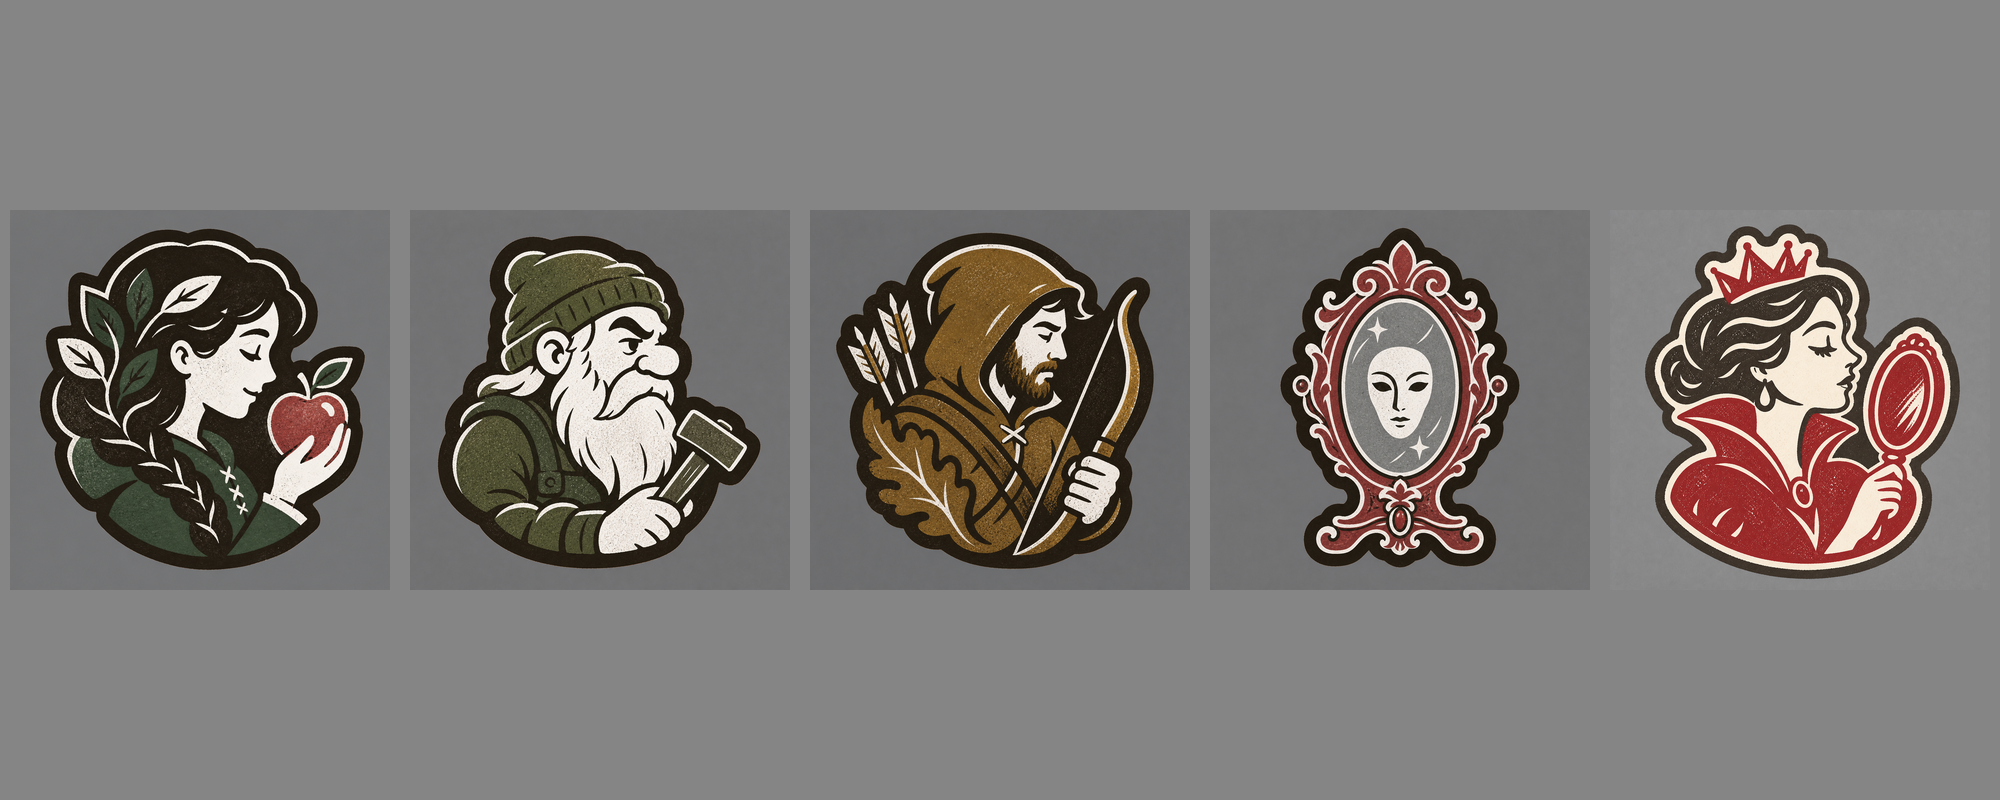
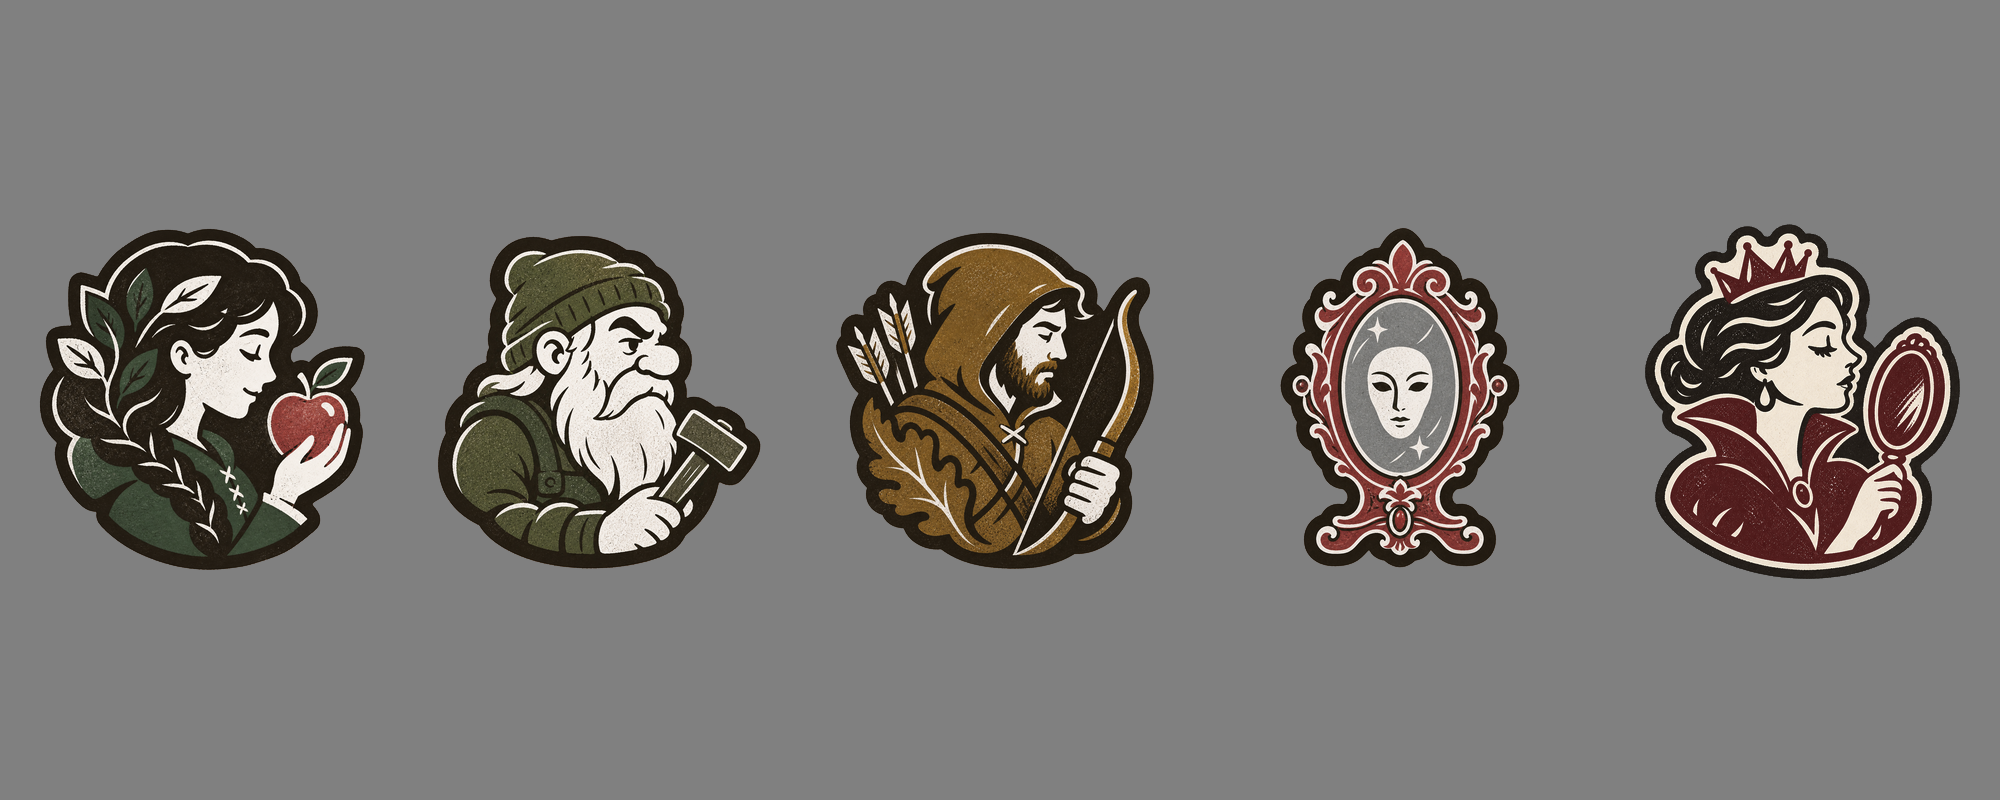
Publish BloodScribe Creator 1.4.3

Changed region(s): [[0.806, 0.2812, 0.992, 0.7188]]

diff --git a/plugins/bloodscribe-creator/skills/create-bloodscribe-icon/references/styles.md b/plugins/bloodscribe-creator/skills/create-bloodscribe-icon/references/styles.md
@@ -10,17 +10,33 @@ For user selection, show [style-selector-board.png](../assets/style-selector-boa
 
 Every style uses a square icon canvas and a compact, almost square subject mass. The visible bounding box should normally be at least 75% as wide as it is tall and remain balanced inside a circular crop. Prefer head-and-shoulders crops, diagonal long objects, overlapping hands or symbols, and near-circular silhouettes. Avoid full bodies, narrow standing poses, tall portrait cards, or placing the narrative object in a separate row below the character. Comparison boards use five equal square cells: each centered subject occupies about 78-84 percent of its cell at a consistent scale. The board outside subjects is pure white by default. A style with a white exterior contour may instead use a uniform neutral mid-gray inspection canvas so the contour remains visible; that gray is never part of the final icon. A material support or contextual background may exist only inside the local icon when the style explicitly requires it.
 
+## Character-type palette
+
+Use colors declared by the target pack or supplied by the user. Ask once for all five character-type colors when any are missing; accept partial overrides and fill each omitted entry with the corresponding BloodScribe default:
+
+| Character type | Default |
+|---|---|
+| Pueblerinos | `#438b54` |
+| Ayudantes | `#81942d` |
+| Errantes | `#947947` |
+| Siervos | `#a8443c` |
+| Oscuros | `#5d2618` |
+
+Always state the active character type and its exact resolved color in the image-generation prompt. Apply it primarily to clothing, trim, collar, frame, or one secondary mass. Story-defining subjects and objects keep their intuitive natural colors.
+
 ## Styles
 
 ### `cuento-infantil`
 
-The established Grimm style. Read [the reference board](../assets/cuento-infantil-style-board.png) before generating.
+The established Grimm character style, equivalent to `GRIMM-INK-V1-SCHEMATIC`. Read [the reference board](../assets/cuento-infantil-style-board.png) before generating; use it for subject scale and composition, while the locked rules below control finish and detail. This style defaults to `bajo`; for this pairing, its locked 7-11-mass definition overrides the generic 5-7-mass guidance for `bajo` below.
 
-- Rounded, schematic folklore character or object with a friendly editorial finish.
-- Heavy, smooth black exterior and important interior contours.
-- Large clean color masses with restrained soft gradients; no painted texture or scenery.
-- Expressive face built from very few marks and a dominant story object occupying roughly 30-45 percent of the composition.
-- Character-type color on clothing or the main support mass: green for Pueblerino, olive for Ayudante, ochre for Errante, red for Siervo, dark brown for Oscuro. Natural story colors still win.
+- One original folklore character, creature, or object in a centered bust or emblem, readable at 48-64 px.
+- Roughly 7-11 large, flat schematic masses and no more than 3-5 essential interior marks.
+- One consistent heavy pure-black outline, visually about 26 px on a 1254 px canvas. Exterior and important interior contours use the same weight, rounded caps and joins, smooth organic curves, and soft corners.
+- One dominant story object, garment, hairstyle, or secondary shape occupying roughly 35-50 percent of the composition.
+- No gradients, hatching, texture, tiny patterns, individual hair or fur strands, scenery, extra characters, text, logo, frame, realism, 3D, anime, faceted polygons, or blocky anatomy.
+- Use the resolved character-type palette above without recoloring story-defining subjects or objects.
+- Keep enclosed whites and creams opaque; only the exterior is transparent. Do not imitate Disney or another franchise.
 
 ### `acuarela-infantil`
 
@@ -127,7 +143,7 @@ For user selection, show [detail-selector-board.png](../assets/detail-selector-b
 
 - About 10-14 masses.
 - A few garment folds, grouped hair or beard shapes, and the important object fittings.
-- Default for every style except `polaroid-realista`.
+- Default for every style except `cuento-infantil` and `polaroid-realista`.
 
 ### `detallado`
 
@@ -137,11 +153,11 @@ For user selection, show [detail-selector-board.png](../assets/detail-selector-b
 
 ## Recommended pairings
 
-Use these only when the user asks for a recommendation; they never replace explicit selection.
+`cuento-infantil` uses its listed style-specific default. Use every other pairing only when the user asks for a recommendation; they never replace explicit selection.
 
 | Style | Detail |
 |---|---|
-| `cuento-infantil` | `medio` |
+| `cuento-infantil` | `bajo` (predeterminado) |
 | `acuarela-infantil` | `medio` |
 | `icono-representativo` | `medio` |
 | `emblema-narrativo` | `medio` |

diff --git a/plugins/bloodscribe-creator/skills/create-bloodscribe-icon/SKILL.md b/plugins/bloodscribe-creator/skills/create-bloodscribe-icon/SKILL.md
@@ -12,8 +12,8 @@ Icon generation is optional and separate from character mechanics. Do not create
 ## Workflow
 
 1. Always deliver one separate pack-ready SVG per character. Do not ask the user to choose an output format and do not offer PNG comparison sheets; PNG proposals are review intermediates only.
-2. Identify the character, one dominant narrative symbol, the pack's character-type color, and any explicit constraints. Keep story objects in their natural colors; reserve that color for clothing, trim, frame, or one secondary mass.
-3. Require three explicit, independent choices before generating: `style`, `detail`, and `composition`. Choose `style` and `detail` from [references/styles.md](references/styles.md). The exact composition values are `personaje-con-objeto` and `objeto-solo`. If `style` is missing, inspect and show `assets/style-selector-board.png`, whose labels are the exact accepted names. If `detail` is missing, inspect and show `assets/detail-selector-board.png`. If `composition` is missing, ask: “¿Quieres personaje con objeto u objeto solo?”. Ask for every missing choice in one message and do not generate until all three are explicit. You may recommend an option when asked, but never infer or apply a silent default.
+2. Identify the character, one dominant narrative symbol, its character type, and any explicit constraints. Resolve the five character-type colors using [the palette contract](references/styles.md#character-type-palette). If the request or target pack does not provide all five, ask once for the colors of Pueblerinos, Ayudantes, Errantes, Siervos, and Oscuros, explain that omitted entries use BloodScribe defaults, and accept a complete palette, a partial palette, or no overrides. Do not ask a second time: fill every omitted entry from the default table. Include the active character type and its exact resolved color in every image-generation prompt. Keep story objects in their natural colors; reserve the character-type color for clothing, trim, frame, or one secondary mass.
+3. Require explicit, independent choices for `style` and `composition`. Choose `style` from [references/styles.md](references/styles.md); if it is missing, inspect and show `assets/style-selector-board.png`, whose labels are the exact accepted names. The exact composition values are `personaje-con-objeto` and `objeto-solo`; if it is missing, ask: “¿Quieres personaje con objeto u objeto solo?”. `detail` is also explicit except for `cuento-infantil`, whose established Grimm preset defaults to `bajo`. For every other style, if `detail` is missing, inspect and show `assets/detail-selector-board.png`. Ask for every missing choice, including the palette question from step 2 when needed, in one message and do not generate until all required choices are resolved. You may recommend an option when asked, but never infer any other silent default.
 4. Load only the full reference board for the selected style and `assets/detail-levels-style-board.png`. Use them to calibrate medium, shape language, outline, density, and finish; never copy one of their characters into a different character. A style board's white or gray inspection canvas is never part of the style or the final icon.
 5. Generate one centered subject per square PNG proposal, targeting 1254 x 1254 with generous padding. For `personaje-con-objeto`, crop the character to head and shoulders and interlock the dominant narrative object beside it. For `objeto-solo`, omit the character and let one recognizable object fill the composition; do not add a face, body, or hands unless the user explicitly requests anthropomorphism. Each PNG is only a review intermediate for its corresponding SVG: prefer real transparency, but accept a clean removable background or a different raster size when the existing converter can crop and normalize it without cutting the artwork. Compose the visible subject as a compact, almost square mass: its occupied bounding box should normally be at least 75% as wide as it is tall. Bend or place long objects diagonally; do not use tall full-body poses, narrow portrait compositions, or stack the symbol underneath. Do not add text, scenery, frames, logos, watermarks, or extra characters unless the selected style explicitly requires a physical frame such as a Polaroid or medallion.
 6. Review every icon at full size and as a 64 px thumbnail. The subject and narrative symbol must remain recognizable, and the composition must still feel balanced when clipped into a circle. Increasing detail must not change the silhouette, pose, identity, or realism level.

diff --git a/docs/pack-builder-reference.md b/docs/pack-builder-reference.md
@@ -259,8 +259,8 @@ Ejemplo de mayoría de vivos:
 
 | Campo | Opciones | Qué hace |
 |---|---|---|
-| `timing.open` | `perNomination`, `day`, `preDawn` | Abre por nominación, durante el día o al final de la noche. |
-| `timing.resolve` | `perNomination`, `dusk`, `preDawn` | Resuelve por nominación, al anochecer o antes del amanecer. |
+| `timing.open` | `perNomination`, `day`, `preDawn` | Abre por nominación, durante el día o en Noche Tardía. |
+| `timing.resolve` | `perNomination`, `dusk`, `preDawn` | Resuelve por nominación, al anochecer o en Noche Tardía. |
 | `disclosure.publicResult` | `resultOnly`, `totals` | Publica solo el resultado o también los totales por candidato. |
 
 `enteredBy` también define el cierre. Con `storyteller`, cerrar resuelve y aplica el resultado inmediatamente. Con `players`, cerrar bloquea las papeletas y calcula el resultado solo para el Narrador: los móviles muestran que la votación ha terminado hasta que pulse **Comunicar resultados**. Entonces se aplican las ejecuciones, se sincroniza la ruleta de 12 segundos si alguien muere y se publica el desenlace según `disclosure.publicResult`.

diff --git a/plugins/bloodscribe-creator/skills/create-bloodscribe-character/SKILL.md b/plugins/bloodscribe-creator/skills/create-bloodscribe-character/SKILL.md
@@ -28,6 +28,7 @@ Write `ability` in the output locale using the concise player-facing style share
 - Use digits for Spanish game quantities. In English, prefer idiomatic `a player` for one and concise numeric quantities where natural.
 - When a choice, condition, or trigger produces an effect, separate the result with a colon.
 - Keep the ability to one or two compact sentences when possible. Remove flavor, implementation vocabulary, redundant subjects, and optional wording when the choice is mandatory.
+- For a token or marker transferred directly to the addressed player, write `mueves la ficha/marca a ti`, never `hacia ti`; `a ti` makes clear that it goes straight to that player without passing through others.
 - Preserve any uncertainty, false information, impairment, limit, exception, duration, identity mode, alignment change, or death condition declared by the mechanics.
 
 Example: `Cada noche, eliges a 1 jugador (no a ti): queda protegido hasta el amanecer.` corresponds to `Each night, choose another player: they are protected until dawn.`
